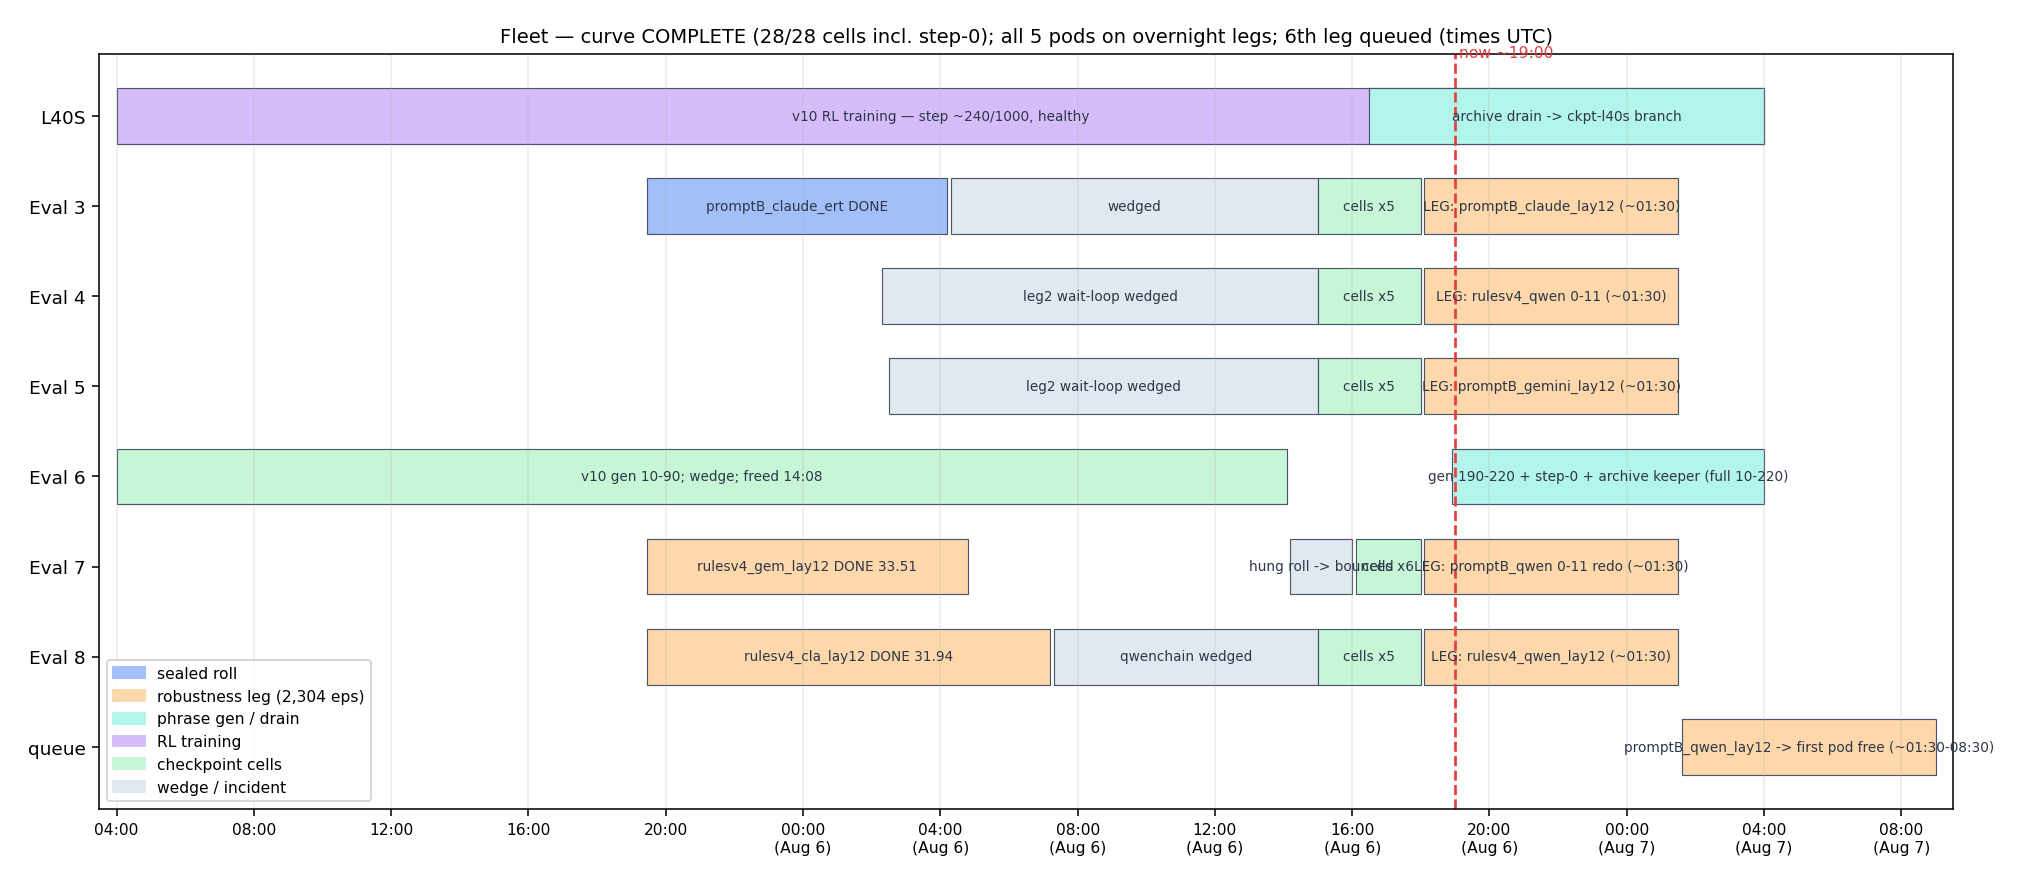
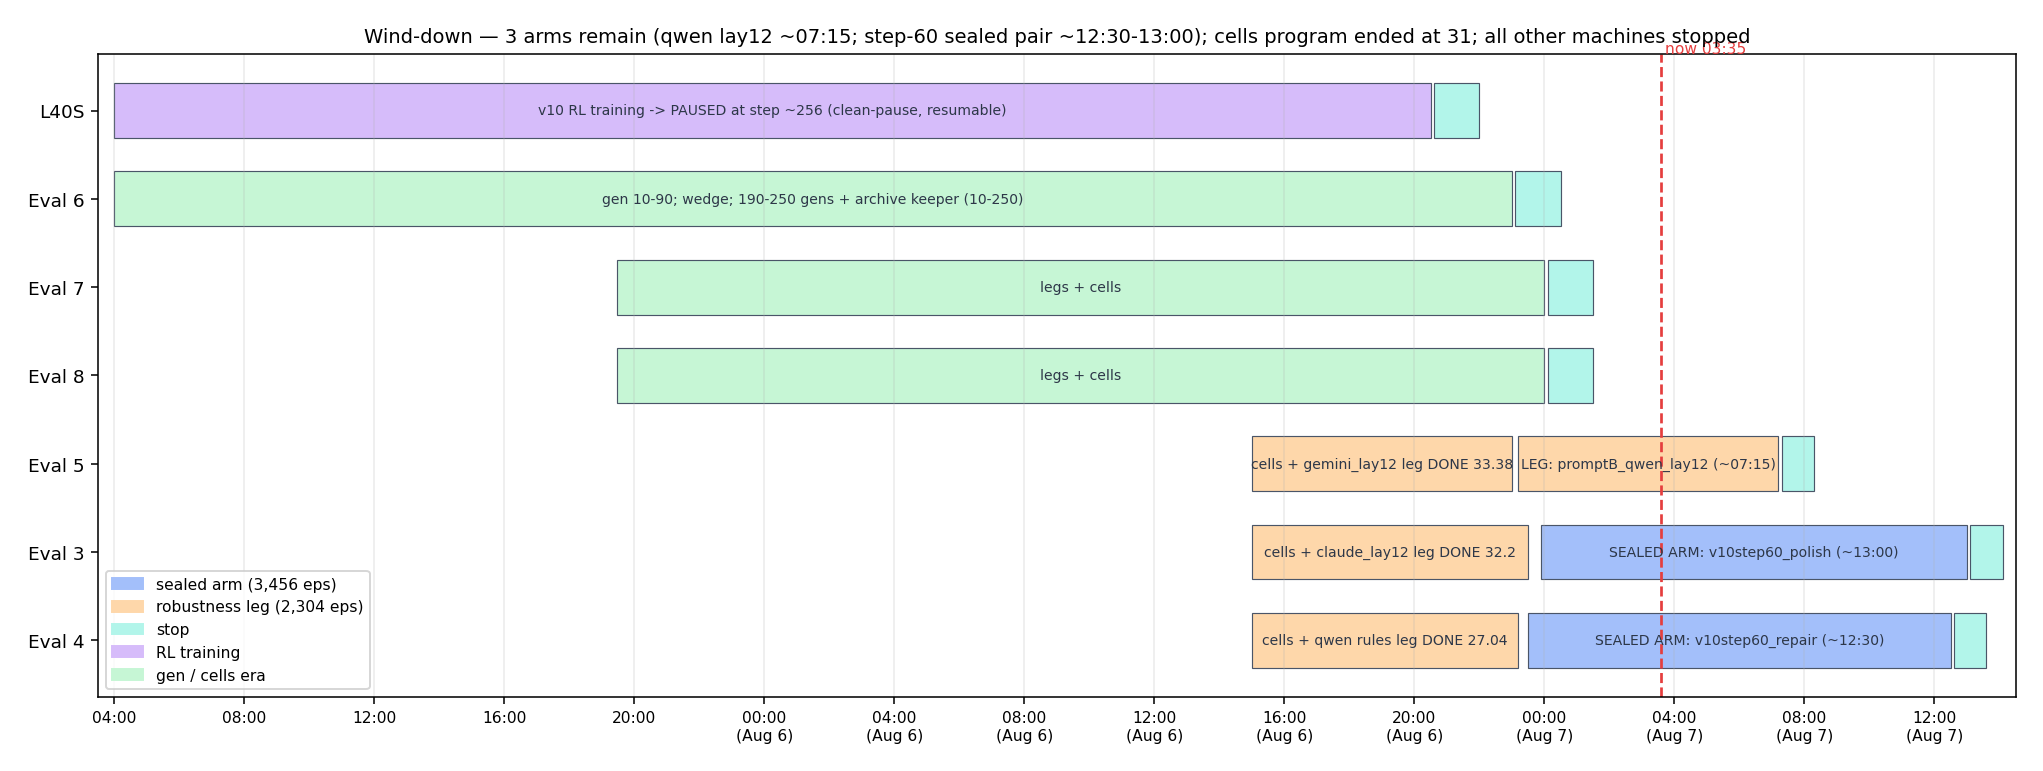
gantt: wind-down era (e7/e8/pod6 stopped; 3 arms to landing)

diff --git a/scripts/make_fleet_gantt.py b/scripts/make_fleet_gantt.py
@@ -9,56 +9,47 @@ from matplotlib.patches import Patch
 
 C = {"sealed": "#a3bffa", "rr": "#fed7aa", "gen": "#b2f5ea",
      "train": "#d6bcfa", "worker": "#c6f6d5", "setup": "#e2e8f0"}
-NOW = 43.0  # ~19:00 Aug 6 pod-time
+NOW = 51.6  # ~03:35 Aug 7 pod-time
 
 ROWS = [
-    ("L40S",    [("v10 RL training — step ~240/1000, healthy", 4.0, 52.0, "train"),
-                 ("archive drain -> ckpt-l40s branch", 40.5, 52.0, "gen")]),
-    ("Eval 3",  [("promptB_claude_ert DONE", 19.45, 28.2, "sealed"),
-                 ("wedged", 28.3, 39.0, "setup"),
-                 ("cells x5", 39.0, 42.0, "worker"),
-                 ("LEG: promptB_claude_lay12 (~01:30)", 42.1, 49.5, "rr")]),
-    ("Eval 4",  [("leg2 wait-loop wedged", 26.3, 39.0, "setup"),
-                 ("cells x5", 39.0, 42.0, "worker"),
-                 ("LEG: rulesv4_qwen 0-11 (~01:30)", 42.1, 49.5, "rr")]),
-    ("Eval 5",  [("leg2 wait-loop wedged", 26.5, 39.0, "setup"),
-                 ("cells x5", 39.0, 42.0, "worker"),
-                 ("LEG: promptB_gemini_lay12 (~01:30)", 42.1, 49.5, "rr")]),
-    ("Eval 6",  [("v10 gen 10-90; wedge; freed 14:08", 4.0, 38.1, "worker"),
-                 ("gen 190-220 + step-0 + archive keeper (full 10-220)", 42.9, 52.0, "gen")]),
-    ("Eval 7",  [("rulesv4_gem_lay12 DONE 33.51", 19.45, 28.8, "rr"),
-                 ("hung roll -> bounced", 38.2, 40.0, "setup"),
-                 ("cells x6", 40.1, 42.0, "worker"),
-                 ("LEG: promptB_qwen 0-11 redo (~01:30)", 42.1, 49.5, "rr")]),
-    ("Eval 8",  [("rulesv4_cla_lay12 DONE 31.94", 19.45, 31.2, "rr"),
-                 ("qwenchain wedged", 31.3, 39.0, "setup"),
-                 ("cells x5", 39.0, 42.0, "worker"),
-                 ("LEG: rulesv4_qwen_lay12 (~01:30)", 42.1, 49.5, "rr")]),
-    ("queue",   [("promptB_qwen_lay12 -> first pod free (~01:30-08:30)", 49.6, 57.0, "rr")]),
+    ("L40S",    [("v10 RL training -> PAUSED at step ~256 (clean-pause, resumable)", 4.0, 44.5, "train"),
+                 ("STOPPED", 44.6, 46.0, "gen")]),
+    ("Eval 6",  [("gen 10-90; wedge; 190-250 gens + archive keeper (10-250)", 4.0, 47.0, "worker"),
+                 ("STOPPED 03:20 (volume = archive)", 47.1, 48.5, "gen")]),
+    ("Eval 7",  [("legs + cells", 19.45, 48.0, "worker"), ("STOPPED 03:20", 48.1, 49.5, "gen")]),
+    ("Eval 8",  [("legs + cells", 19.45, 48.0, "worker"), ("STOPPED 03:20", 48.1, 49.5, "gen")]),
+    ("Eval 5",  [("cells + gemini_lay12 leg DONE 33.38", 39.0, 47.0, "rr"),
+                 ("LEG: promptB_qwen_lay12 (~07:15)", 47.2, 55.2, "rr"),
+                 ("stop on landing", 55.3, 56.3, "gen")]),
+    ("Eval 3",  [("cells + claude_lay12 leg DONE 32.2", 39.0, 47.5, "rr"),
+                 ("SEALED ARM: v10step60_polish (~13:00)", 47.9, 61.0, "sealed"),
+                 ("stop", 61.1, 62.1, "gen")]),
+    ("Eval 4",  [("cells + qwen rules leg DONE 27.04", 39.0, 47.2, "rr"),
+                 ("SEALED ARM: v10step60_repair (~12:30)", 47.5, 60.5, "sealed"),
+                 ("stop", 60.6, 61.6, "gen")]),
 ]
 
-fig, ax = plt.subplots(figsize=(14.5, 6.2))
+fig, ax = plt.subplots(figsize=(14.5, 5.4))
 for i, (pod, bars) in enumerate(ROWS):
     y = len(ROWS) - 1 - i
     for label, s, e, cat in bars:
         ax.barh(y, e - s, left=s, height=0.62, color=C[cat], edgecolor="#4a5568", lw=0.6)
-        if e - s > 1.6:
-            ax.text((s + e) / 2, y, label, ha="center", va="center", fontsize=7.0, color="#2d3748")
+        if e - s > 1.8:
+            ax.text((s + e) / 2, y, label, ha="center", va="center", fontsize=7.2, color="#2d3748")
 ax.axvline(NOW, color="#e53e3e", lw=1.4, ls="--")
-ax.text(NOW + 0.1, len(ROWS) - 0.35, "now ~19:00", color="#e53e3e", fontsize=8)
+ax.text(NOW + 0.1, len(ROWS) - 0.35, "now 03:35", color="#e53e3e", fontsize=8)
 ax.set_yticks(range(len(ROWS)))
 ax.set_yticklabels([p for p, _ in reversed(ROWS)], fontsize=9.5)
-ticks = list(range(4, 57, 4))
+ticks = list(range(4, 63, 4))
 ax.set_xticks(ticks)
 ax.set_xticklabels([f"{t % 24:02d}:00" + ("\n(Aug 6)" if 24 <= t < 48 else ("\n(Aug 7)" if t >= 48 else "")) for t in ticks], fontsize=8)
-ax.set_xlim(3.5, 57.5)
+ax.set_xlim(3.5, 62.5)
 ax.grid(axis="x", alpha=0.25)
 ax.legend(handles=[Patch(color=C[k], label=l) for k, l in
-                   [("sealed", "sealed roll"), ("rr", "robustness leg (2,304 eps)"),
-                    ("gen", "phrase gen / drain"), ("train", "RL training"),
-                    ("worker", "checkpoint cells"), ("setup", "wedge / incident")]],
+                   [("sealed", "sealed arm (3,456 eps)"), ("rr", "robustness leg (2,304 eps)"),
+                    ("gen", "stop"), ("train", "RL training"), ("worker", "gen / cells era")]],
           fontsize=8, loc="lower left")
-ax.set_title("Fleet — curve COMPLETE (28/28 cells incl. step-0); all 5 pods on overnight legs; 6th leg queued (times UTC)", fontsize=10)
+ax.set_title("Wind-down — 3 arms remain (qwen lay12 ~07:15; step-60 sealed pair ~12:30-13:00); cells program ended at 31; all other machines stopped", fontsize=10)
 fig.tight_layout()
 fig.savefig("results/charts/fleet_gantt.png", dpi=140, bbox_inches="tight", pad_inches=0.2)
 print("chart -> results/charts/fleet_gantt.png")
